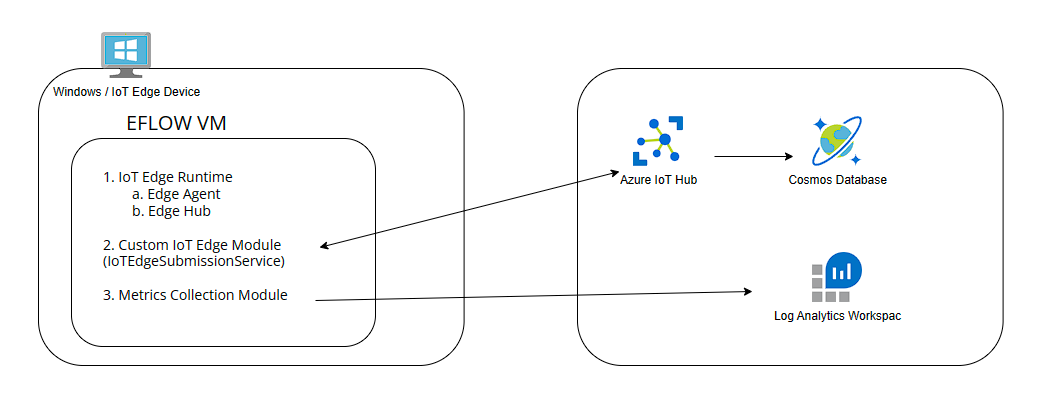
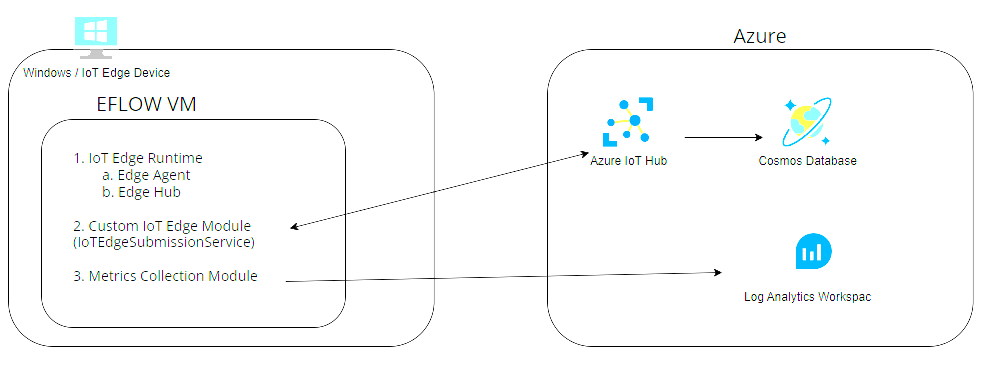
arg

diff --git a/README.md b/README.md
@@ -2,7 +2,22 @@
 
 ## Overview
 
+This sample project contains the Azure and Edge components necessary to host a Web API on the edge that accepts valid JSON and forwards it to IoT Hub in Azure. IoT Hub in turns sends the data to Cosmos Database. The components that run on the edge are hosted on a Windows device configured with EFLOW to host the IoT Edge runtime and custom modules to host a web api for json submission, and a module for sending additional metrics to Log Anatlycs for observability. 
+
+Clone this repo and follow the steps below to get the solution running in your own Azure subscription.
+
 ## Install Azure Infrastructure
+
+Using a bicep file and the Azure CLI, you can deploy the Azure services as visualized below.  This includes...
+1. [Azure IoT Hub](https://azure.microsoft.com/en-us/products/iot-hub/)
+2. [Azure Cosmos Database](https://azure.microsoft.com/en-us/products/cosmos-db/)
+3. [Azure Log Analytics Workspace - part of Azure Monitor](https://azure.microsoft.com/en-us/products/monitor/)
+
+
+![Azure Infra Overview](./Docs/azure-architecture.png)
+
+
+
 After cloning this repo locally, navigate to the [BicepDeployment Directory](..BicepDeployment/) and execute the following commands.  
 ```C#	
 // You must first authenticate with Azure.
